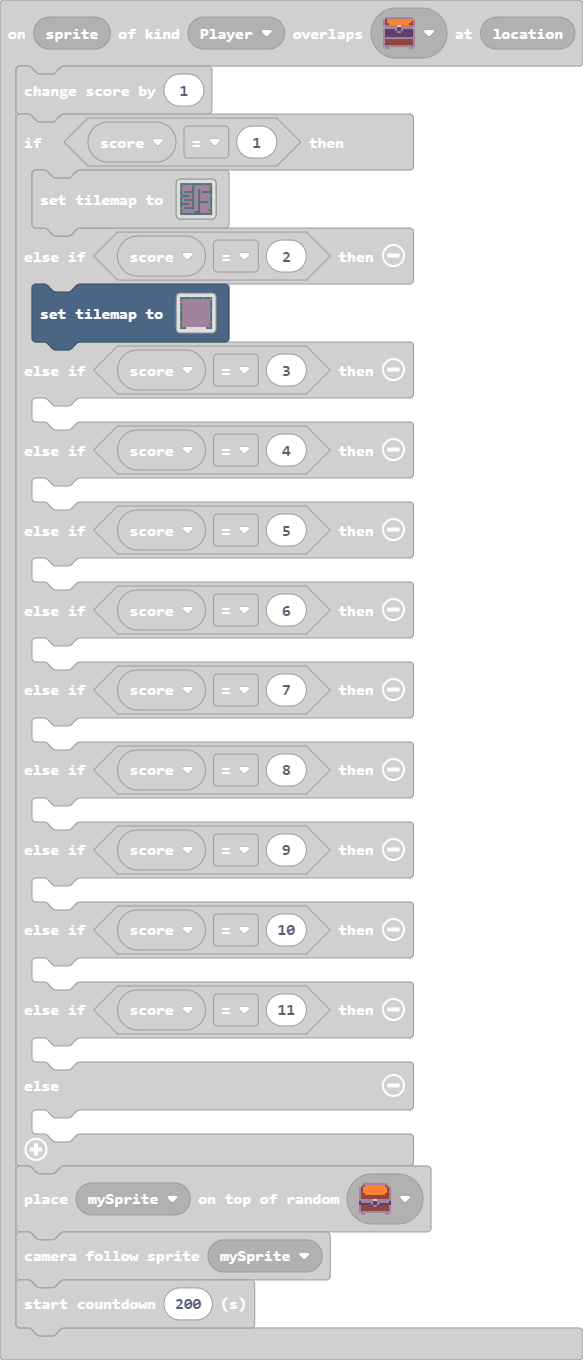
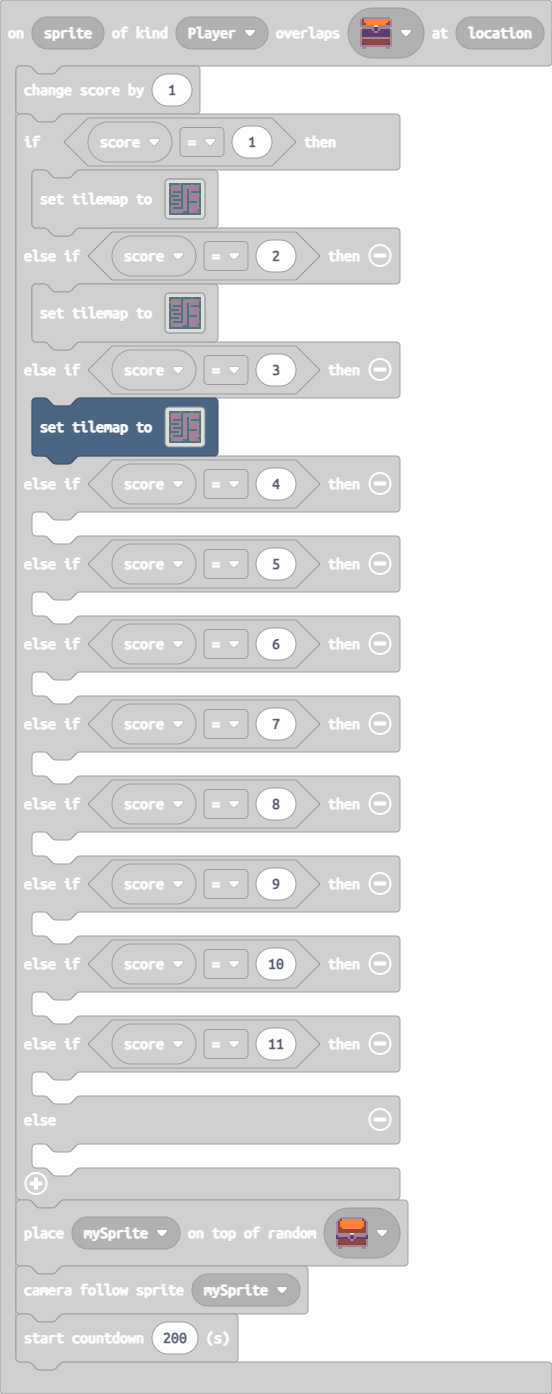
Update main.blocks, main.ts, tilemap.g.jres, tilemap.g.ts

diff --git a/tilemap.g.ts b/tilemap.g.ts
@@ -43,6 +43,25 @@ namespace myTiles {
 2 . . . . . 2 . . . . . 2 . . 2 
 2 2 2 2 2 2 2 2 2 2 2 2 2 2 2 2 
 `, [myTiles.transparency16,sprites.dungeon.greenOuterNorthWest,sprites.dungeon.greenOuterNorth0,sprites.dungeon.greenOuterNorthEast,sprites.dungeon.greenOuterEast0,sprites.dungeon.greenOuterSouthWest,sprites.dungeon.greenOuterSouth0,sprites.dungeon.greenOuterSouth1,sprites.dungeon.greenOuterSouthEast,sprites.dungeon.greenOuterWest1,sprites.dungeon.greenOuterWest0,sprites.dungeon.floorDark2,sprites.dungeon.greenOuterNorth1,sprites.dungeon.greenOuterEast1,sprites.dungeon.floorDark5,sprites.dungeon.greenInnerNorthEast,sprites.dungeon.greenOuterWest2,sprites.dungeon.greenOuterEast2,sprites.dungeon.greenOuterNorth2,sprites.dungeon.greenOuterSouth2,sprites.dungeon.greenInnerNorthWest,sprites.dungeon.greenInnerSouthEast,myTiles.transparency16,sprites.dungeon.chestClosed,sprites.dungeon.chestOpen], TileScale.Sixteen);
+            case "level_4":
[1 lines of base64/hex data omitted]
+. . . . . . . . . . . . . . . . 
+. . . . . . . . . . . . . . . . 
+. . . . . . . . . . . . . . . . 
+. . . . . . . . . . . . . . . . 
+. . . . . . . . . . . . . . . . 
+. . . . . . . . . . . . . . . . 
+. . . . . . . . . . . . . . . . 
+. . . . . . . . . . . . . . . . 
+. . . . . . . . . . . . . . . . 
+. . . . . . . . . . . . . . . . 
+. . . . . . . . . . . . . . . . 
+. . . . . . . . . . . . . . . . 
+. . . . . . . . . . . . . . . . 
+. . . . . . . . . . . . . . . . 
+. . . . . . . . . . . . . . . . 
+. . . . . . . . . . . . . . . . 
+`, [myTiles.transparency16,sprites.dungeon.greenOuterNorthWest,sprites.dungeon.greenOuterNorth0,sprites.dungeon.greenOuterNorthEast,sprites.dungeon.greenOuterEast0,sprites.dungeon.greenOuterSouthWest,sprites.dungeon.greenOuterSouth0,sprites.dungeon.greenOuterSouth1,sprites.dungeon.greenOuterSouthEast,sprites.dungeon.greenOuterWest1,sprites.dungeon.greenOuterWest0,sprites.dungeon.floorDark2,sprites.dungeon.greenOuterNorth1,sprites.dungeon.greenOuterEast1,sprites.dungeon.floorDark5,sprites.dungeon.greenOuterWest2,sprites.dungeon.stairWest,sprites.dungeon.greenOuterEast2,sprites.dungeon.greenOuterNorth2,sprites.dungeon.stairLadder], TileScale.Sixteen);
             case "level_3":
[1 lines of base64/hex data omitted]
 . . . . . . . . . . . . . . . . 
@@ -100,25 +119,6 @@ namespace myTiles {
 . . . . . . . . . . . . . . . . 
 . . . . . . . . . . . . . . . . 
 `, [myTiles.transparency16], TileScale.Sixteen);
-            case "level_4":
[1 lines of base64/hex data omitted]
-. . . . . . . . . . . . . . . . 
-. . . . . . . . . . . . . . . . 
-. . . . . . . . . . . . . . . . 
-. . . . . . . . . . . . . . . . 
-. . . . . . . . . . . . . . . . 
-. . . . . . . . . . . . . . . . 
-. . . . . . . . . . . . . . . . 
-. . . . . . . . . . . . . . . . 
-. . . . . . . . . . . . . . . . 
-. . . . . . . . . . . . . . . . 
-. . . . . . . . . . . . . . . . 
-. . . . . . . . . . . . . . . . 
-. . . . . . . . . . . . . . . . 
-. . . . . . . . . . . . . . . . 
-. . . . . . . . . . . . . . . . 
-. . . . . . . . . . . . . . . . 
-`, [myTiles.transparency16,sprites.dungeon.greenOuterNorthWest,sprites.dungeon.greenOuterNorth0,sprites.dungeon.greenOuterNorthEast,sprites.dungeon.greenOuterEast0,sprites.dungeon.greenOuterSouthWest,sprites.dungeon.greenOuterSouth0,sprites.dungeon.greenOuterSouth1,sprites.dungeon.greenOuterSouthEast,sprites.dungeon.greenOuterWest1,sprites.dungeon.greenOuterWest0,sprites.dungeon.floorDark2,sprites.dungeon.greenOuterNorth1,sprites.dungeon.greenOuterEast1,sprites.dungeon.floorDark5,sprites.dungeon.greenOuterWest2,sprites.dungeon.stairWest,sprites.dungeon.greenOuterEast2,sprites.dungeon.greenOuterNorth2,sprites.dungeon.stairLadder], TileScale.Sixteen);
         }
         return null;
     })

diff --git a/main.ts b/main.ts
@@ -4,9 +4,9 @@ scene.onOverlapTile(SpriteKind.Player, sprites.dungeon.chestOpen, function (spri
     if (score == 1) {
         tiles.setTilemap(tilemap`level_3`)
     } else if (score == 2) {
-        tiles.setTilemap(tilemap`level_4`)
+        tiles.setTilemap(tilemap`level_3`)
     } else if (score == 3) {
-    	
+        tiles.setTilemap(tilemap`level_3`)
     } else if (score == 4) {
     	
     } else if (score == 5) {
